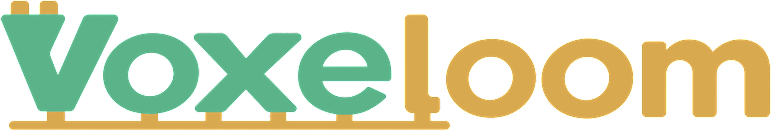
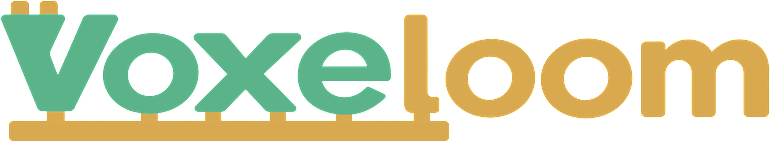
The wordmark stands on a plate

diff --git a/404.html b/404.html
@@ -12,7 +12,7 @@
 <link rel="manifest" href="/assets/manifest.json">
 <meta name="theme-color" media="(prefers-color-scheme: light)" content="#f4eee3">
 <meta name="theme-color" media="(prefers-color-scheme: dark)" content="#16140f">
-<link rel="stylesheet" href="/assets/app.css?v=14f11f01ea">
+<link rel="stylesheet" href="/assets/app.css?v=d142a543d0">
 </head>
 <body>
 
@@ -21,8 +21,8 @@
     <div class="lockup">
       <a class="brand" href="/">
         <picture>
-          <source srcset="/assets/voxeloom-dark.png" media="(prefers-color-scheme: dark)">
-          <img src="/assets/voxeloom.png" alt="Voxeloom" width="202" height="34">
+          <source srcset="/assets/voxeloom-dark.png?v=4f5e7f2cbc" media="(prefers-color-scheme: dark)">
+          <img src="/assets/voxeloom.png?v=529da98ea0" alt="Voxeloom" width="202" height="37">
         </picture>
       </a>
       <span class="line">Made to build. Meant to keep.</span>
@@ -390,8 +390,8 @@
       <div>
         <a class="brand quiet" href="/">
           <picture>
-            <source srcset="/assets/voxeloom-dark.png" media="(prefers-color-scheme: dark)">
-            <img src="/assets/voxeloom.png" alt="Voxeloom" width="166" height="28">
+            <source srcset="/assets/voxeloom-dark.png?v=4f5e7f2cbc" media="(prefers-color-scheme: dark)">
+            <img src="/assets/voxeloom.png?v=529da98ea0" alt="Voxeloom" width="164" height="30">
           </picture>
         </a>
         <p class="small" style="margin-top:8px">Brick models of the places you love.<br><em>Made to build. Meant to keep.</em></p>

diff --git a/index.html b/index.html
@@ -11,7 +11,7 @@
 <link rel="manifest" href="/assets/manifest.json">
 <meta name="theme-color" media="(prefers-color-scheme: light)" content="#f4eee3">
 <meta name="theme-color" media="(prefers-color-scheme: dark)" content="#16140f">
-<link rel="stylesheet" href="/assets/app.css?v=14f11f01ea">
+<link rel="stylesheet" href="/assets/app.css?v=d142a543d0">
 </head>
 <body>
 
@@ -20,8 +20,8 @@
     <div class="lockup">
       <a class="brand" href="/">
         <picture>
-          <source srcset="/assets/voxeloom-dark.png" media="(prefers-color-scheme: dark)">
-          <img src="/assets/voxeloom.png" alt="Voxeloom" width="202" height="34">
+          <source srcset="/assets/voxeloom-dark.png?v=4f5e7f2cbc" media="(prefers-color-scheme: dark)">
+          <img src="/assets/voxeloom.png?v=529da98ea0" alt="Voxeloom" width="202" height="37">
         </picture>
       </a>
       <span class="line">Made to build. Meant to keep.</span>
@@ -389,8 +389,8 @@
       <div>
         <a class="brand quiet" href="/">
           <picture>
-            <source srcset="/assets/voxeloom-dark.png" media="(prefers-color-scheme: dark)">
-            <img src="/assets/voxeloom.png" alt="Voxeloom" width="166" height="28">
+            <source srcset="/assets/voxeloom-dark.png?v=4f5e7f2cbc" media="(prefers-color-scheme: dark)">
+            <img src="/assets/voxeloom.png?v=529da98ea0" alt="Voxeloom" width="164" height="30">
           </picture>
         </a>
         <p class="small" style="margin-top:8px">Brick models of the places you love.<br><em>Made to build. Meant to keep.</em></p>

diff --git a/gallery/index.html b/gallery/index.html
@@ -11,7 +11,7 @@
 <link rel="manifest" href="/assets/manifest.json">
 <meta name="theme-color" media="(prefers-color-scheme: light)" content="#f4eee3">
 <meta name="theme-color" media="(prefers-color-scheme: dark)" content="#16140f">
-<link rel="stylesheet" href="/assets/app.css?v=14f11f01ea">
+<link rel="stylesheet" href="/assets/app.css?v=d142a543d0">
 </head>
 <body>
 
@@ -20,8 +20,8 @@
     <div class="lockup">
       <a class="brand" href="/">
         <picture>
-          <source srcset="/assets/voxeloom-dark.png" media="(prefers-color-scheme: dark)">
-          <img src="/assets/voxeloom.png" alt="Voxeloom" width="202" height="34">
+          <source srcset="/assets/voxeloom-dark.png?v=4f5e7f2cbc" media="(prefers-color-scheme: dark)">
+          <img src="/assets/voxeloom.png?v=529da98ea0" alt="Voxeloom" width="202" height="37">
         </picture>
       </a>
       <span class="line">Made to build. Meant to keep.</span>
@@ -64,8 +64,8 @@
       <div>
         <a class="brand quiet" href="/">
           <picture>
-            <source srcset="/assets/voxeloom-dark.png" media="(prefers-color-scheme: dark)">
-            <img src="/assets/voxeloom.png" alt="Voxeloom" width="166" height="28">
+            <source srcset="/assets/voxeloom-dark.png?v=4f5e7f2cbc" media="(prefers-color-scheme: dark)">
+            <img src="/assets/voxeloom.png?v=529da98ea0" alt="Voxeloom" width="164" height="30">
           </picture>
         </a>
         <p class="small" style="margin-top:8px">Brick models of the places you love.<br><em>Made to build. Meant to keep.</em></p>

diff --git a/assets/app.css b/assets/app.css
@@ -106,10 +106,10 @@ header.site .wrap {
 
 /* The wordmark is artwork, not type, so it ships as two inked PNGs and the
    page picks one by colour scheme. Height is fixed and width follows, so the
-   gold rule under the lettering always lands on the same pixel. */
+   gold plate under the lettering always lands on the same pixel. */
 .brand { display: block; text-decoration: none; line-height: 0; }
-.brand img { display: block; height: 34px; width: auto; }
-.brand.quiet img { height: 28px; }
+.brand img { display: block; height: 37px; width: auto; }
+.brand.quiet img { height: 30px; }
 
 /* The line rides with the wordmark, and steps out of the way when the
    header gets tight. */
@@ -446,13 +446,13 @@ footer.site a:hover { text-decoration: underline; }
   section { padding: 44px 0; }
   nav.site { gap: 14px; }
   nav.site a.hide-sm { display: none; }
-  .brand img { height: 28px; }
+  .brand img { height: 30px; }
 }
 
 /* On a phone the wordmark and three links share 375px, so the logo gives up
    the room rather than the navigation wrapping to a second line. */
 @media (max-width: 560px) {
-  .brand img { height: 23px; }
+  .brand img { height: 25px; }
   nav.site { gap: 11px; }
   nav.site a { font-size: 14px; }
   .btn.small { padding: 7px 12px; }

diff --git a/about/index.html b/about/index.html
@@ -11,7 +11,7 @@
 <link rel="manifest" href="/assets/manifest.json">
 <meta name="theme-color" media="(prefers-color-scheme: light)" content="#f4eee3">
 <meta name="theme-color" media="(prefers-color-scheme: dark)" content="#16140f">
-<link rel="stylesheet" href="/assets/app.css?v=14f11f01ea">
+<link rel="stylesheet" href="/assets/app.css?v=d142a543d0">
 </head>
 <body>
 
@@ -20,8 +20,8 @@
     <div class="lockup">
       <a class="brand" href="/">
         <picture>
-          <source srcset="/assets/voxeloom-dark.png" media="(prefers-color-scheme: dark)">
-          <img src="/assets/voxeloom.png" alt="Voxeloom" width="202" height="34">
+          <source srcset="/assets/voxeloom-dark.png?v=4f5e7f2cbc" media="(prefers-color-scheme: dark)">
+          <img src="/assets/voxeloom.png?v=529da98ea0" alt="Voxeloom" width="202" height="37">
         </picture>
       </a>
       <span class="line">Made to build. Meant to keep.</span>

diff --git a/gallery/beavertail-light/index.html b/gallery/beavertail-light/index.html
@@ -11,7 +11,7 @@
 <link rel="manifest" href="/assets/manifest.json">
 <meta name="theme-color" media="(prefers-color-scheme: light)" content="#f4eee3">
 <meta name="theme-color" media="(prefers-color-scheme: dark)" content="#16140f">
-<link rel="stylesheet" href="/assets/app.css?v=14f11f01ea">
+<link rel="stylesheet" href="/assets/app.css?v=d142a543d0">
 </head>
 <body>
 
@@ -20,8 +20,8 @@
     <div class="lockup">
       <a class="brand" href="/">
         <picture>
-          <source srcset="/assets/voxeloom-dark.png" media="(prefers-color-scheme: dark)">
-          <img src="/assets/voxeloom.png" alt="Voxeloom" width="202" height="34">
+          <source srcset="/assets/voxeloom-dark.png?v=4f5e7f2cbc" media="(prefers-color-scheme: dark)">
+          <img src="/assets/voxeloom.png?v=529da98ea0" alt="Voxeloom" width="202" height="37">
         </picture>
       </a>
       <span class="line">Made to build. Meant to keep.</span>

diff --git a/gallery/corner-cottage/index.html b/gallery/corner-cottage/index.html
@@ -11,7 +11,7 @@
 <link rel="manifest" href="/assets/manifest.json">
 <meta name="theme-color" media="(prefers-color-scheme: light)" content="#f4eee3">
 <meta name="theme-color" media="(prefers-color-scheme: dark)" content="#16140f">
-<link rel="stylesheet" href="/assets/app.css?v=14f11f01ea">
+<link rel="stylesheet" href="/assets/app.css?v=d142a543d0">
 </head>
 <body>
 
@@ -20,8 +20,8 @@
     <div class="lockup">
       <a class="brand" href="/">
         <picture>
-          <source srcset="/assets/voxeloom-dark.png" media="(prefers-color-scheme: dark)">
-          <img src="/assets/voxeloom.png" alt="Voxeloom" width="202" height="34">
+          <source srcset="/assets/voxeloom-dark.png?v=4f5e7f2cbc" media="(prefers-color-scheme: dark)">
+          <img src="/assets/voxeloom.png?v=529da98ea0" alt="Voxeloom" width="202" height="37">
         </picture>
       </a>
       <span class="line">Made to build. Meant to keep.</span>

diff --git a/gallery/rhode-island-state-house/index.html b/gallery/rhode-island-state-house/index.html
@@ -11,7 +11,7 @@
 <link rel="manifest" href="/assets/manifest.json">
 <meta name="theme-color" media="(prefers-color-scheme: light)" content="#f4eee3">
 <meta name="theme-color" media="(prefers-color-scheme: dark)" content="#16140f">
-<link rel="stylesheet" href="/assets/app.css?v=14f11f01ea">
+<link rel="stylesheet" href="/assets/app.css?v=d142a543d0">
 </head>
 <body>
 
@@ -20,8 +20,8 @@
     <div class="lockup">
       <a class="brand" href="/">
         <picture>
-          <source srcset="/assets/voxeloom-dark.png" media="(prefers-color-scheme: dark)">
-          <img src="/assets/voxeloom.png" alt="Voxeloom" width="202" height="34">
+          <source srcset="/assets/voxeloom-dark.png?v=4f5e7f2cbc" media="(prefers-color-scheme: dark)">
+          <img src="/assets/voxeloom.png?v=529da98ea0" alt="Voxeloom" width="202" height="37">
         </picture>
       </a>
       <span class="line">Made to build. Meant to keep.</span>

diff --git a/gallery/the-brick-colonial/index.html b/gallery/the-brick-colonial/index.html
@@ -11,7 +11,7 @@
 <link rel="manifest" href="/assets/manifest.json">
 <meta name="theme-color" media="(prefers-color-scheme: light)" content="#f4eee3">
 <meta name="theme-color" media="(prefers-color-scheme: dark)" content="#16140f">
-<link rel="stylesheet" href="/assets/app.css?v=14f11f01ea">
+<link rel="stylesheet" href="/assets/app.css?v=d142a543d0">
 </head>
 <body>
 
@@ -20,8 +20,8 @@
     <div class="lockup">
       <a class="brand" href="/">
         <picture>
-          <source srcset="/assets/voxeloom-dark.png" media="(prefers-color-scheme: dark)">
-          <img src="/assets/voxeloom.png" alt="Voxeloom" width="202" height="34">
+          <source srcset="/assets/voxeloom-dark.png?v=4f5e7f2cbc" media="(prefers-color-scheme: dark)">
+          <img src="/assets/voxeloom.png?v=529da98ea0" alt="Voxeloom" width="202" height="37">
         </picture>
       </a>
       <span class="line">Made to build. Meant to keep.</span>

diff --git a/gallery/the-old-workings/index.html b/gallery/the-old-workings/index.html
@@ -11,7 +11,7 @@
 <link rel="manifest" href="/assets/manifest.json">
 <meta name="theme-color" media="(prefers-color-scheme: light)" content="#f4eee3">
 <meta name="theme-color" media="(prefers-color-scheme: dark)" content="#16140f">
-<link rel="stylesheet" href="/assets/app.css?v=14f11f01ea">
+<link rel="stylesheet" href="/assets/app.css?v=d142a543d0">
 </head>
 <body>
 
@@ -20,8 +20,8 @@
     <div class="lockup">
       <a class="brand" href="/">
         <picture>
-          <source srcset="/assets/voxeloom-dark.png" media="(prefers-color-scheme: dark)">
-          <img src="/assets/voxeloom.png" alt="Voxeloom" width="202" height="34">
+          <source srcset="/assets/voxeloom-dark.png?v=4f5e7f2cbc" media="(prefers-color-scheme: dark)">
+          <img src="/assets/voxeloom.png?v=529da98ea0" alt="Voxeloom" width="202" height="37">
         </picture>
       </a>
       <span class="line">Made to build. Meant to keep.</span>

diff --git a/gallery/the-stone-and-cedar-house/index.html b/gallery/the-stone-and-cedar-house/index.html
@@ -11,7 +11,7 @@
 <link rel="manifest" href="/assets/manifest.json">
 <meta name="theme-color" media="(prefers-color-scheme: light)" content="#f4eee3">
 <meta name="theme-color" media="(prefers-color-scheme: dark)" content="#16140f">
-<link rel="stylesheet" href="/assets/app.css?v=14f11f01ea">
+<link rel="stylesheet" href="/assets/app.css?v=d142a543d0">
 </head>
 <body>
 
@@ -20,8 +20,8 @@
     <div class="lockup">
       <a class="brand" href="/">
         <picture>
-          <source srcset="/assets/voxeloom-dark.png" media="(prefers-color-scheme: dark)">
-          <img src="/assets/voxeloom.png" alt="Voxeloom" width="202" height="34">
+          <source srcset="/assets/voxeloom-dark.png?v=4f5e7f2cbc" media="(prefers-color-scheme: dark)">
+          <img src="/assets/voxeloom.png?v=529da98ea0" alt="Voxeloom" width="202" height="37">
         </picture>
       </a>
       <span class="line">Made to build. Meant to keep.</span>

diff --git a/gallery/the-towers/index.html b/gallery/the-towers/index.html
@@ -11,7 +11,7 @@
 <link rel="manifest" href="/assets/manifest.json">
 <meta name="theme-color" media="(prefers-color-scheme: light)" content="#f4eee3">
 <meta name="theme-color" media="(prefers-color-scheme: dark)" content="#16140f">
-<link rel="stylesheet" href="/assets/app.css?v=14f11f01ea">
+<link rel="stylesheet" href="/assets/app.css?v=d142a543d0">
 </head>
 <body>
 
@@ -20,8 +20,8 @@
     <div class="lockup">
       <a class="brand" href="/">
         <picture>
-          <source srcset="/assets/voxeloom-dark.png" media="(prefers-color-scheme: dark)">
-          <img src="/assets/voxeloom.png" alt="Voxeloom" width="202" height="34">
+          <source srcset="/assets/voxeloom-dark.png?v=4f5e7f2cbc" media="(prefers-color-scheme: dark)">
+          <img src="/assets/voxeloom.png?v=529da98ea0" alt="Voxeloom" width="202" height="37">
         </picture>
       </a>
       <span class="line">Made to build. Meant to keep.</span>
